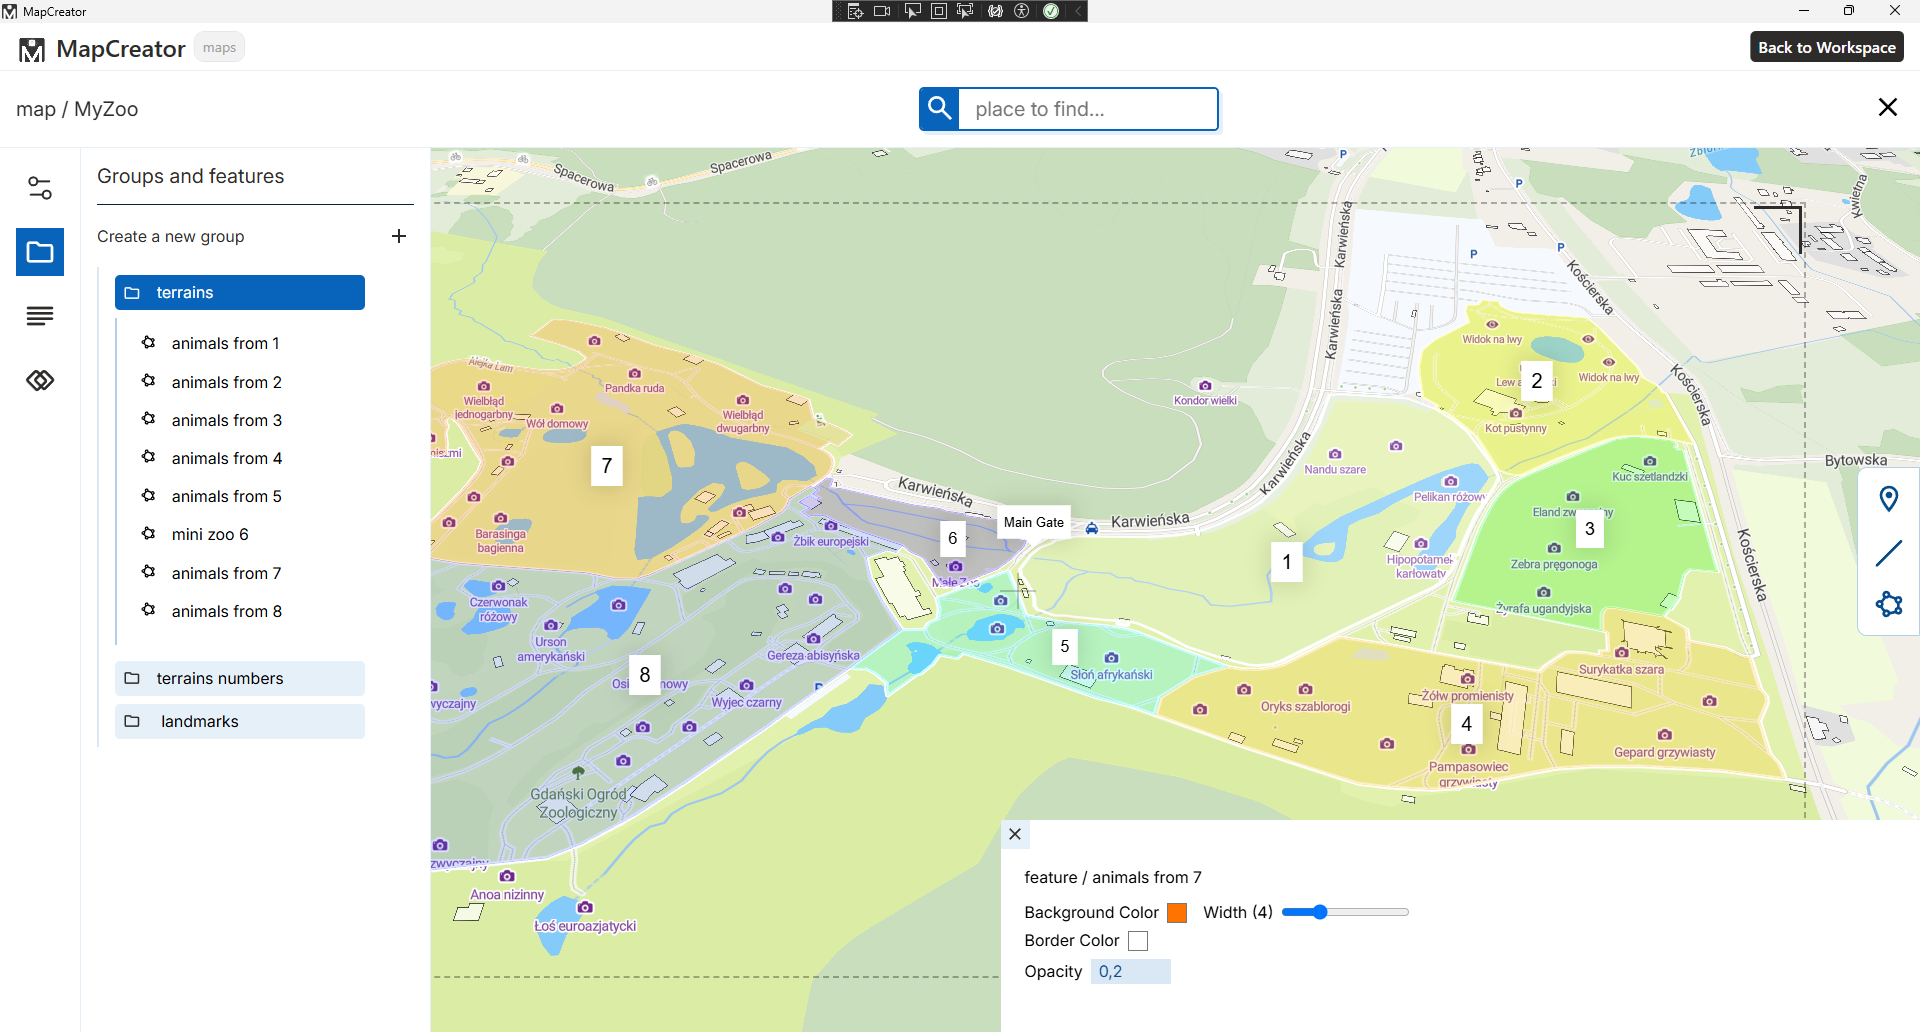
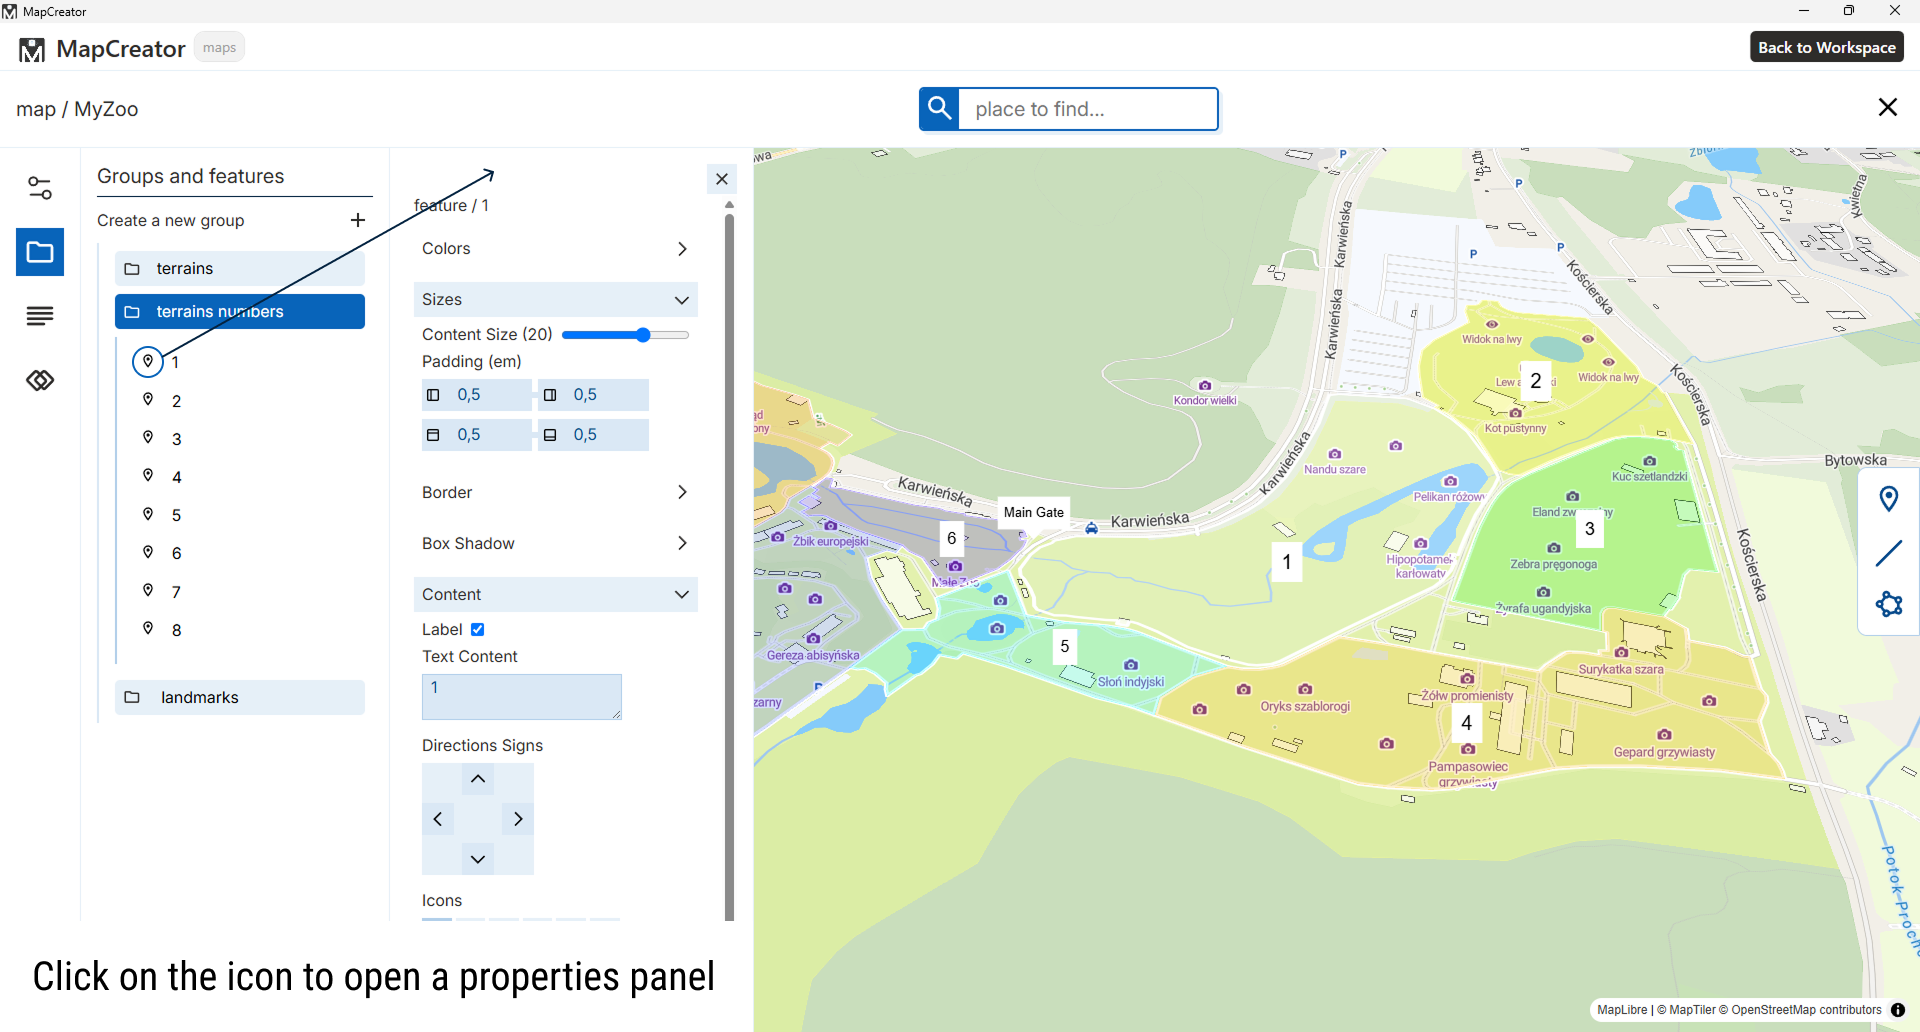
[Modified / Add / Delete] Readme / version changes and delete unused file

diff --git a/README.md b/README.md
@@ -21,6 +21,12 @@
 
 ### Drawings panel
 ![MapDrawings](assets/screenshots/mapDrawings.png)
+> Drawings shortcuts:
+> - **Escape** equals to *close drawing*, 
+> - **Enter or double click on the map** equals to *finish drawing*, 
+> - **Backspace** equals to *remove last draw point*
+
+> Polygon with two points or line with one point won't create a new drawing.
 
 ### Description panel
 ![MapDescription1](assets/screenshots/mapDescription.png)
@@ -28,11 +34,15 @@
 
 ### Combine drawings panel
 ![MapCombineDrawings](assets/screenshots/mapCombineDrawings.png)
+> Combined drawings are not included on the map in template.
 
 ### Final product 
 > Images of pdf pages
 ![FinalProduct1](assets/screenshots/FinalProduct1.png)
 ![FinalProduct2](assets/screenshots/FinalProduct2.png)
+
+### Architecture diagram
+![ArchitectureDiagram](assets/architectureDiagram.png)
 
 ## Installation
 
@@ -104,3 +114,5 @@ dotnet run
 
 ## License
 This project is licensed under the [MIT License](LICENSE).
+<br>
+This project was made possible thanks to the open-source packages listed in [THIRD_PARTY_LICENSES.md](THIRD_PARTY_LICENSES.md).
